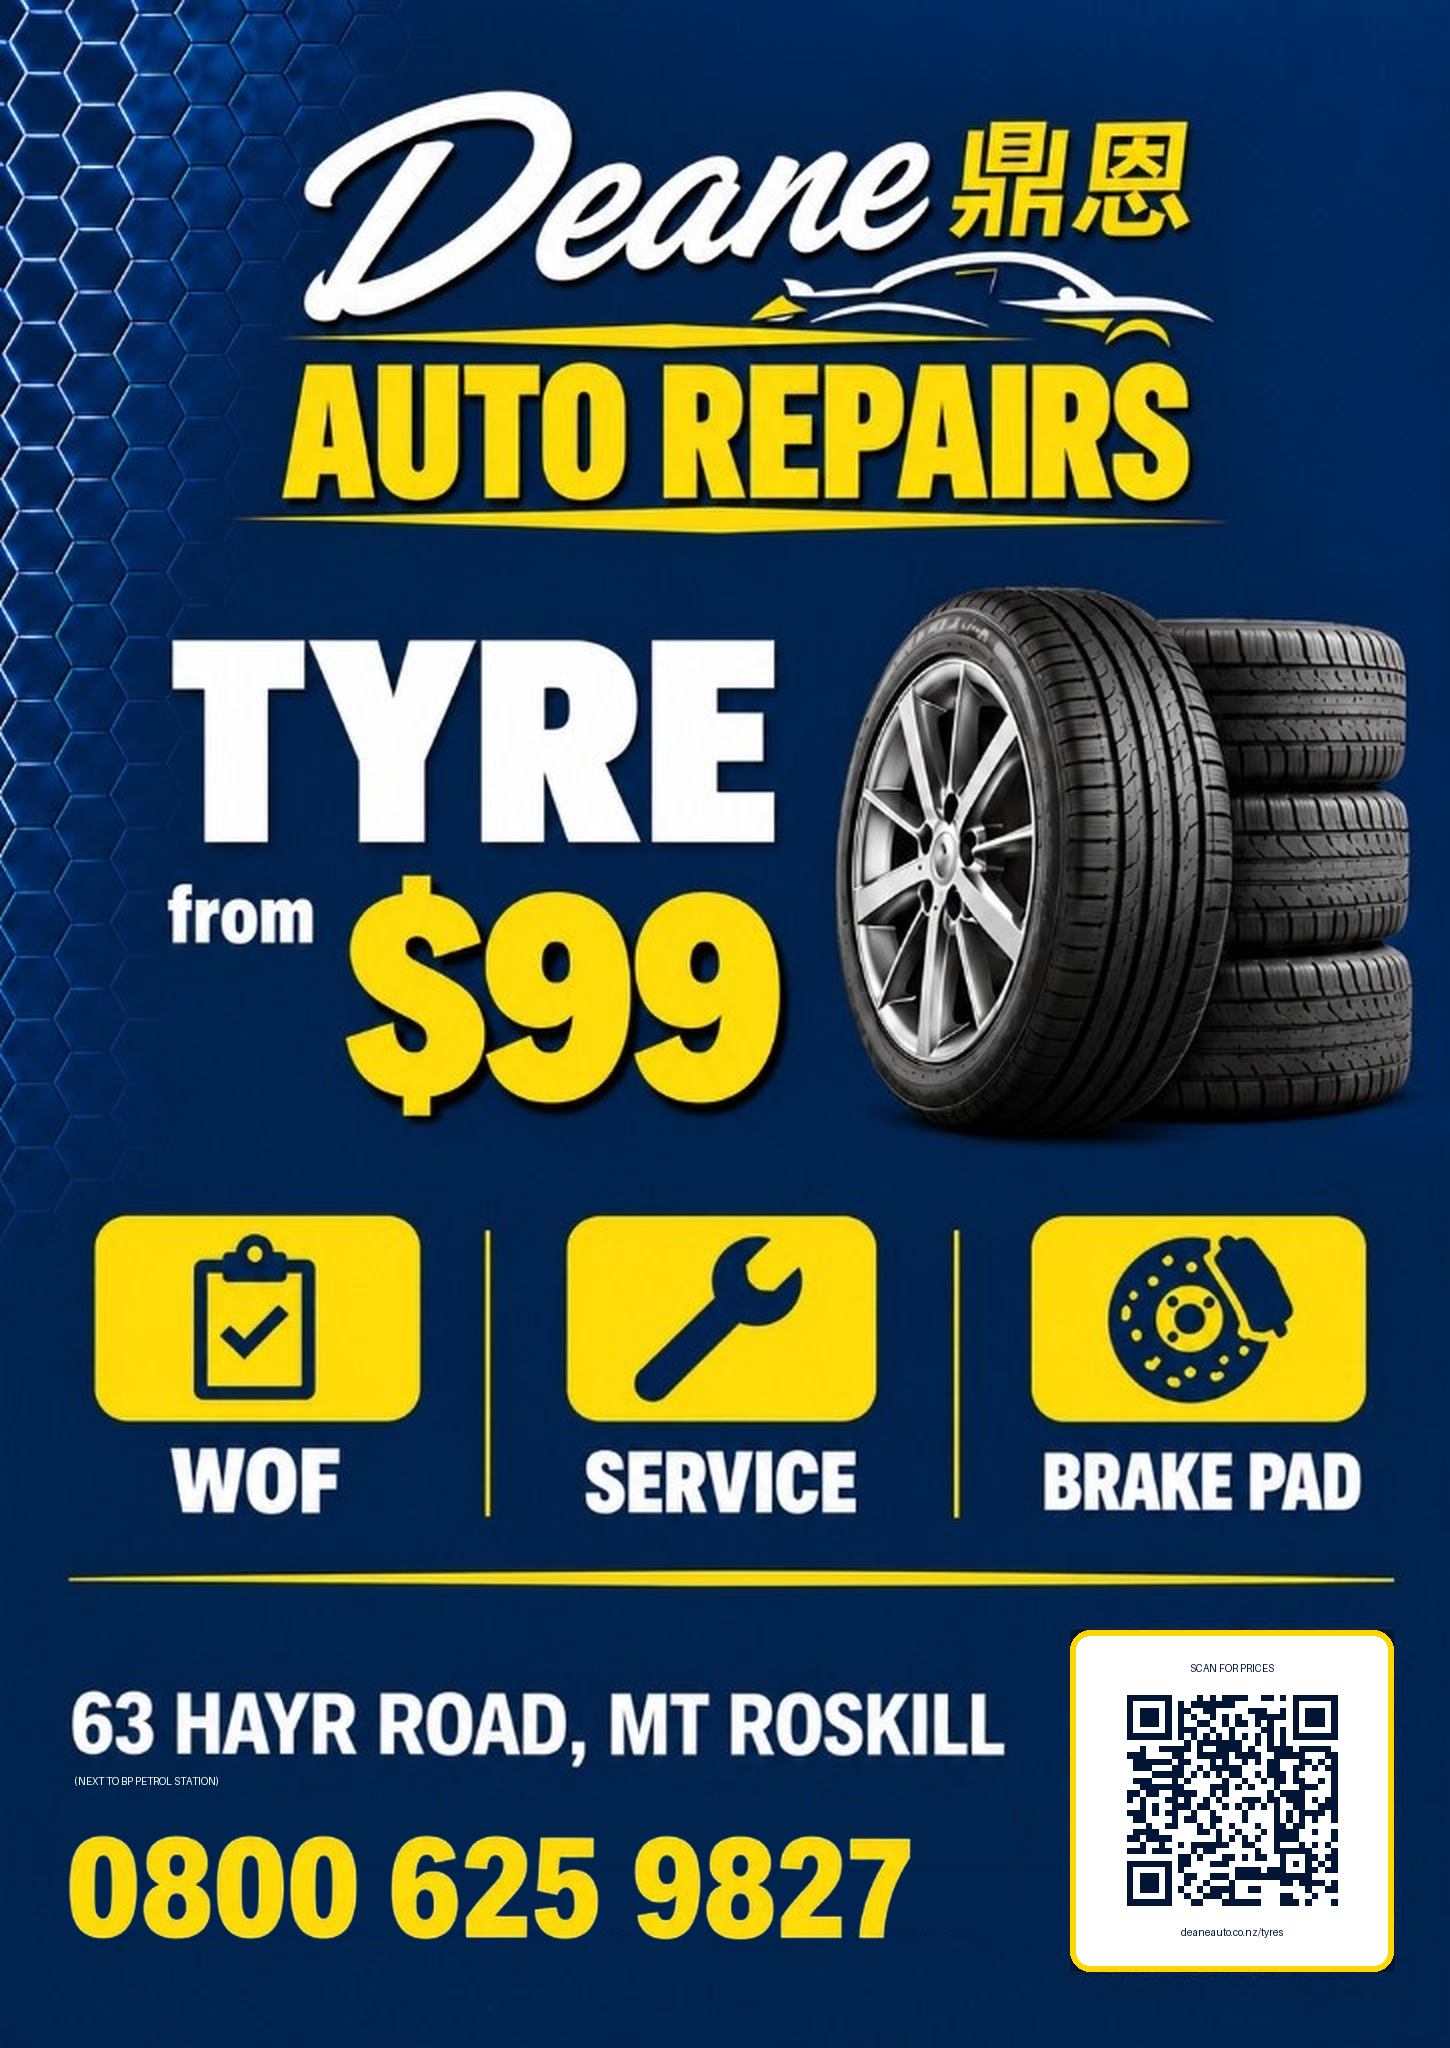
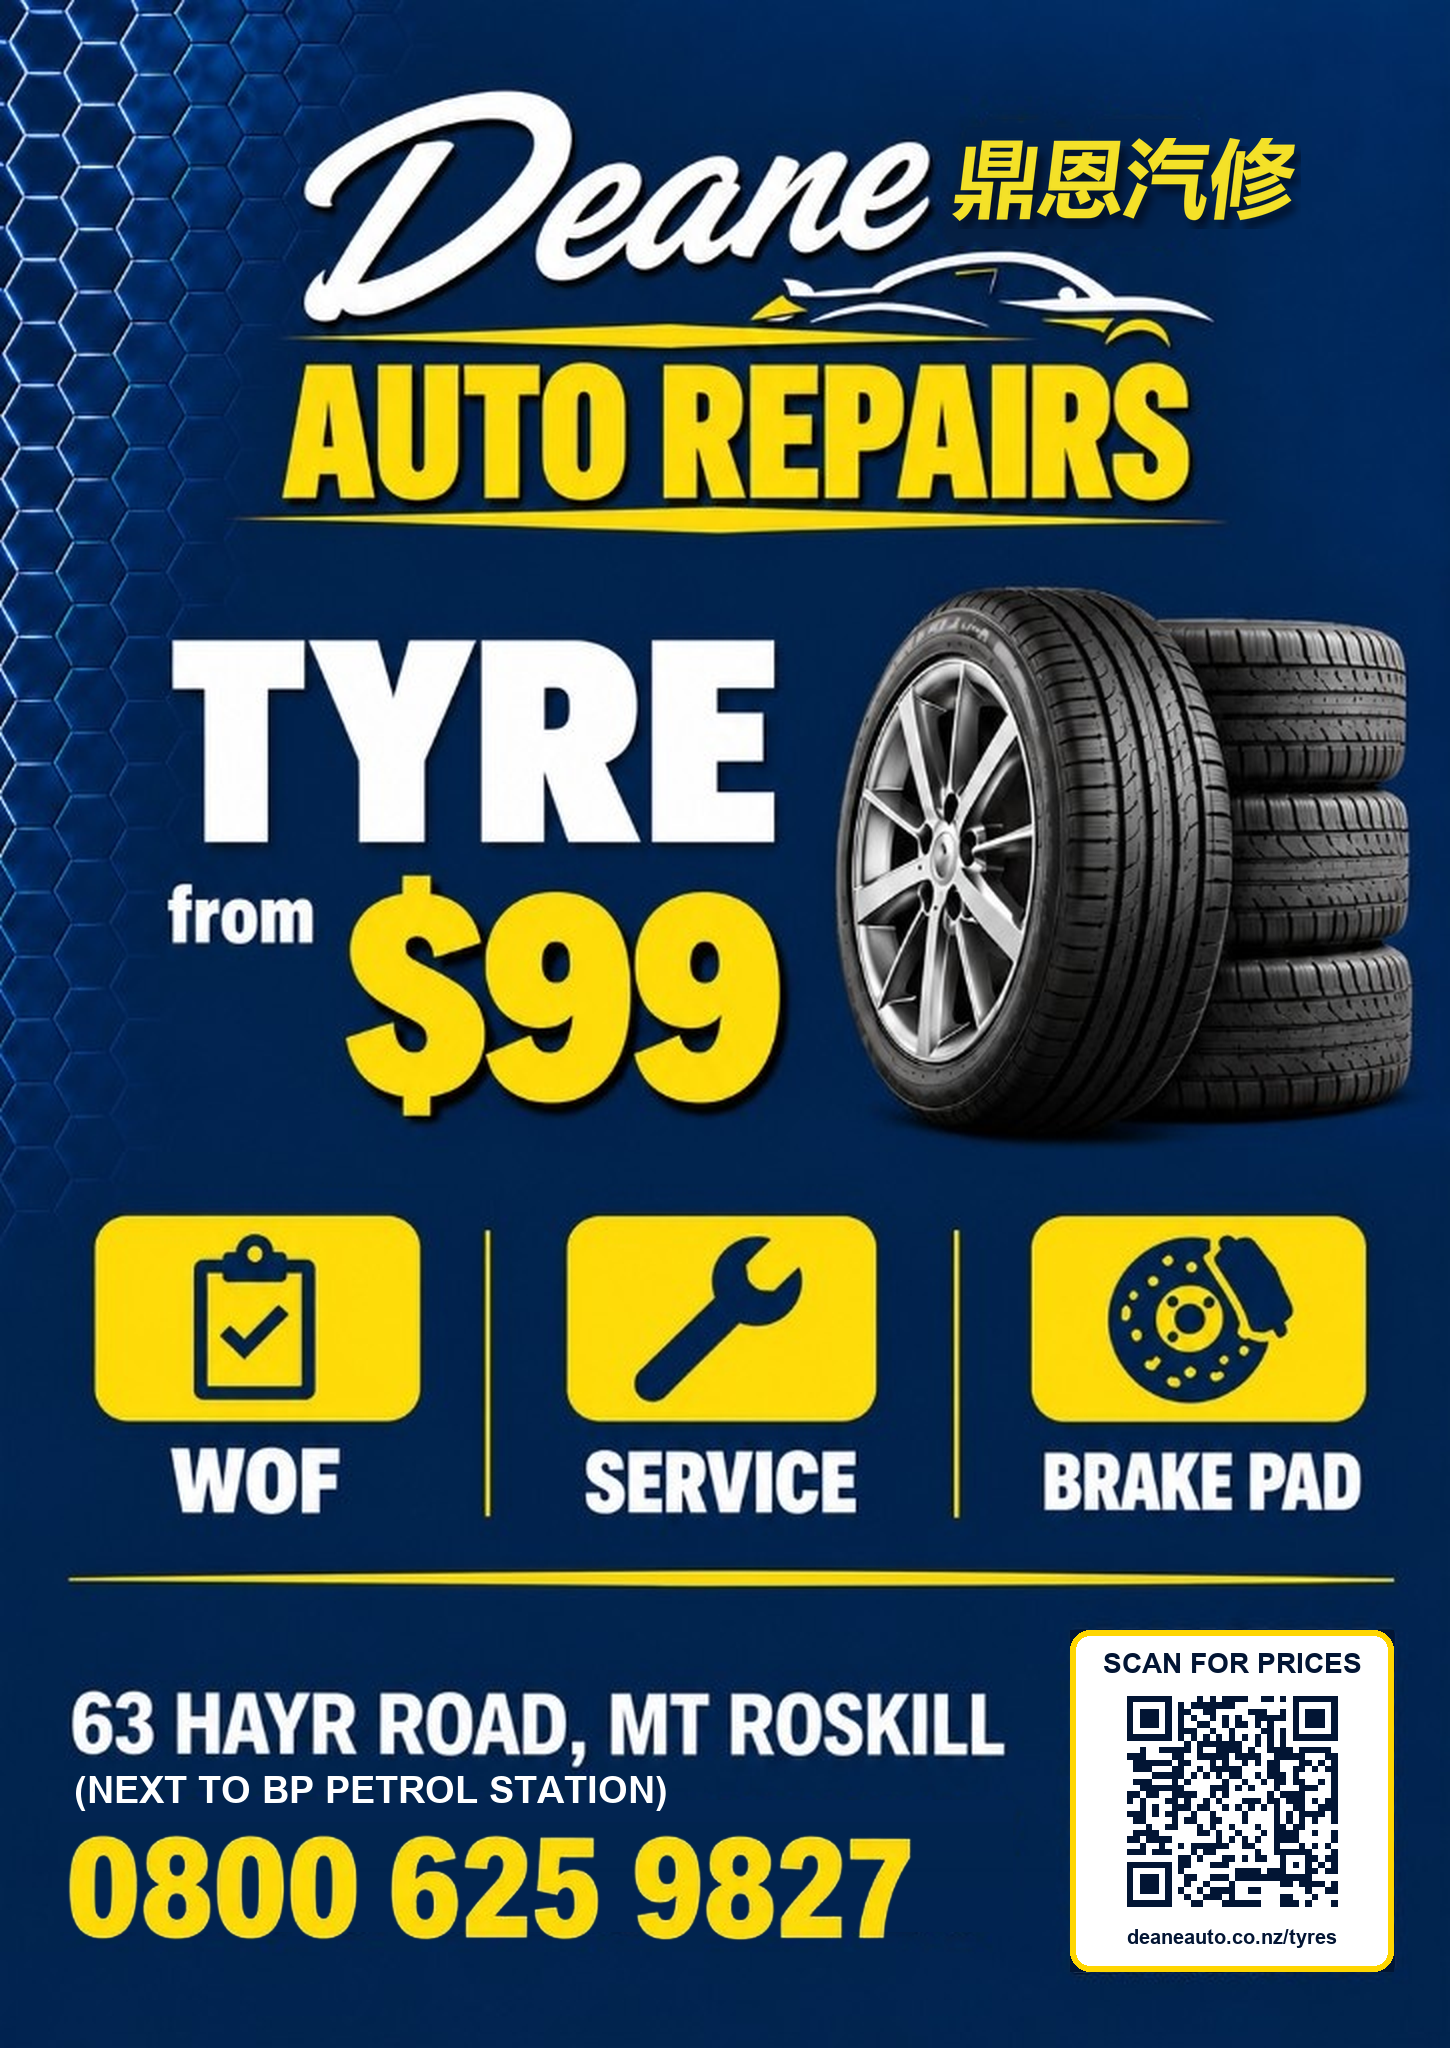
Tyre CN poster: 鼎恩汽修 brand, SCAN FOR PRICES QR, fail loudly on missing fonts

diff --git a/scripts/overlay-booking-qr.py b/scripts/overlay-booking-qr.py
@@ -18,18 +18,23 @@ POSTERS = [
 ]
 
 
-def font(size: int, bold: bool = False) -> ImageFont.FreeTypeFont | ImageFont.ImageFont:
+WINDOWS_FONTS = Path("C:/Windows/Fonts")
+
+
+def font(size: int, bold: bool = False) -> ImageFont.FreeTypeFont:
     names = (
         ["arialbd.ttf", "segoeuib.ttf", "calibrib.ttf"]
         if bold
         else ["arial.ttf", "segoeui.ttf", "calibri.ttf"]
     )
     for name in names:
-        try:
-            return ImageFont.truetype(name, size)
-        except OSError:
-            continue
-    return ImageFont.load_default()
+        for candidate in (name, WINDOWS_FONTS / name):
+            try:
+                return ImageFont.truetype(str(candidate), size)
+            except OSError:
+                continue
+    # The bitmap fallback renders tiny text that silently ruins print posters.
+    raise OSError(f"No usable font found among {names}")
 
 
 def text_size(draw: ImageDraw.ImageDraw, text: str, used: ImageFont.ImageFont) -> tuple[int, int]:
@@ -210,9 +215,42 @@ def load_cn_poster() -> Image.Image:
     return src.resize((src.width * TYRE_SCALE, src.height * TYRE_SCALE), Image.Resampling.LANCZOS)
 
 
+CN_BRAND_BOX = (476, 61, 593, 117)
+CN_BRAND_TEXT = "鼎恩汽修"
+CN_BRAND_SCALE = 0.9 * 0.9 * 0.9
+CN_BRAND_FONT = "msyhbd.ttc"
+# The poster's Chinese characters lean slightly right.
+CN_BRAND_SHEAR = 0.12
+
+
+def retitle_cn_brand(poster: Image.Image, s: int) -> None:
+    """Replace the yellow 鼎恩 beside the Deane script with CN_BRAND_TEXT at CN_BRAND_SCALE of its height."""
+    x0, y0, x1, y1 = CN_BRAND_BOX
+    src = poster.crop((x0 * s, y0 * s, (x1 + 1) * s, (y1 + 1) * s))
+    yellow = sorted(p for p in src.getdata() if p[0] > 200 and p[1] > 170 and p[2] < 80)
+    fill = yellow[len(yellow) // 2]
+    erase_text(poster, CN_BRAND_BOX, s, pad=6)
+
+    big = ImageFont.truetype(str(WINDOWS_FONTS / CN_BRAND_FONT), 400)
+    tb = big.getbbox(CN_BRAND_TEXT)
+    mask = Image.new("L", (tb[2] - tb[0] + 120, tb[3] - tb[1]), 0)
+    ImageDraw.Draw(mask).text((-tb[0], -tb[1]), CN_BRAND_TEXT, font=big, fill=255)
+    mask = mask.transform(
+        mask.size, Image.Transform.AFFINE, (1, CN_BRAND_SHEAR, -CN_BRAND_SHEAR * mask.height, 0, 1, 0),
+        resample=Image.Resampling.BICUBIC,
+    )
+    mask = mask.crop(mask.getbbox())
+    target_h = round((y1 - y0 + 1) * CN_BRAND_SCALE * s)
+    mask = mask.resize((round(mask.width * target_h / mask.height), target_h), Image.Resampling.LANCZOS)
+    top = round((y0 + y1 + 1) / 2 * s - target_h / 2)
+    paste_text(poster, mask, (x0 * s, top), fill, s, shadow=170)
+
+
 def tyre_poster_cn(qr_path: Path) -> None:
+    poster = load_cn_poster()
+    retitle_cn_brand(poster, TYRE_SCALE)
     finish_cn_poster(
-        load_cn_poster(),
+        poster,
         qr_path,
         TYRE_CN_POSTER.replace(".jpg", "-qr.png"),
         title=TYRE_CARD_TITLE,
